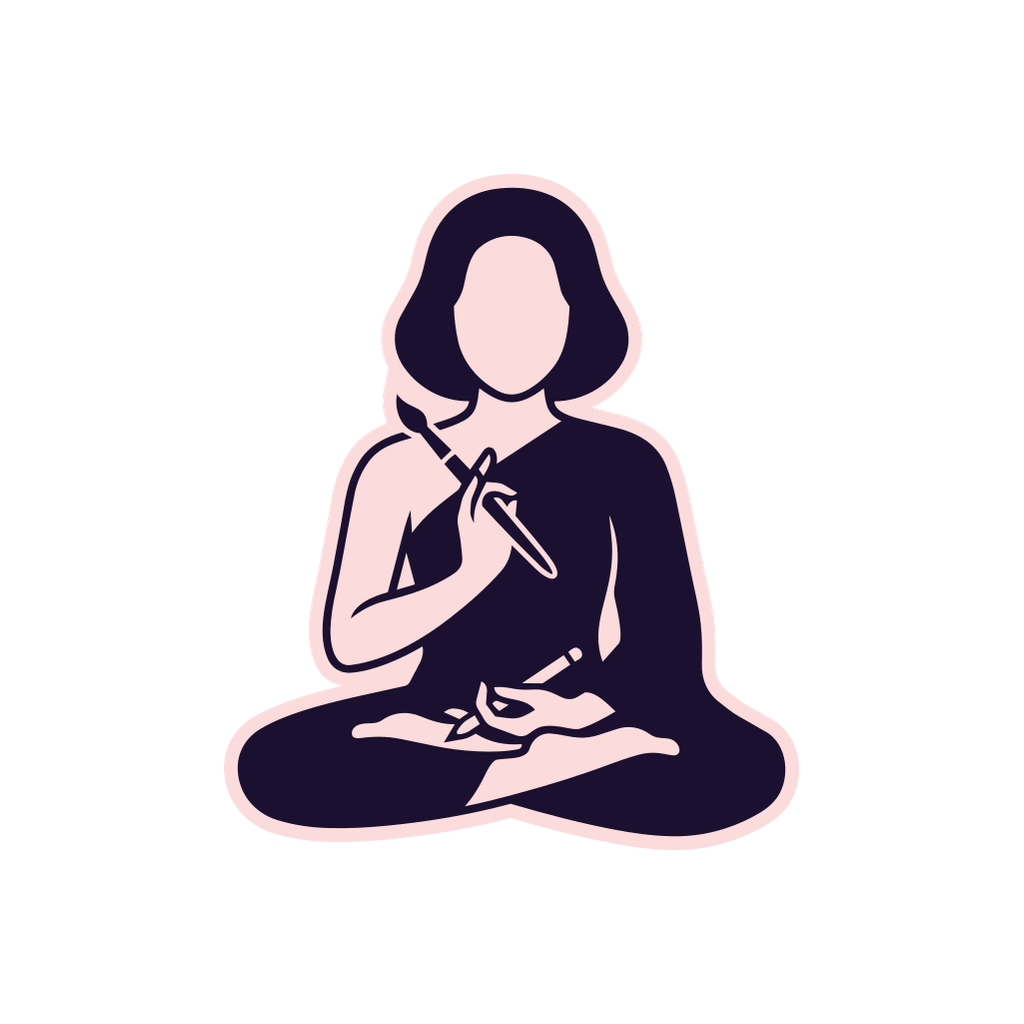
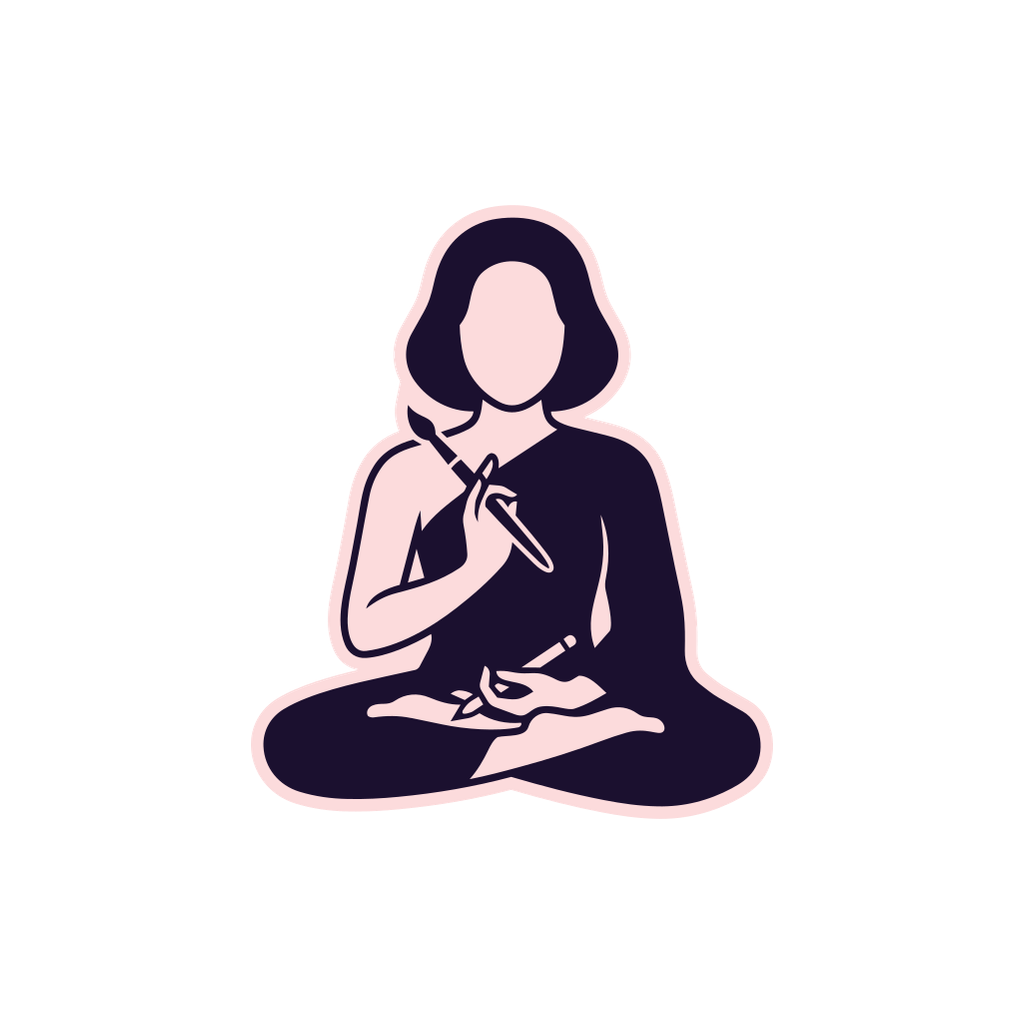
Enhance OAuth user creation and improve SelectionBar styles
- Added a new function to auto-create Firestore users from OAuth tokens when users exist in Firebase Auth but not in Firestore, improving error handling and logging.
- Updated SelectionBar component styles for better layout and interaction, ensuring the gradient background does not block user interactions.
- Adjusted the safe zone for adaptive icons to prevent cropping issues during rendering.

Changed region(s): [[0.2188, 0.1562, 0.7812, 0.8438]]

diff --git a/backend/src/graphql/middleware/auth.js b/backend/src/graphql/middleware/auth.js
@@ -2,6 +2,34 @@ import authService from '../../services/authService.js';
 import { AuthenticationError, NotFoundError } from '../../utils/errors.js';
 import logger from '../../utils/logger.js';
 
+/**
+ * Create OAuth user in Firestore from decoded Firebase token.
+ * Used when user exists in Firebase Auth (valid token) but not in Firestore -
+ * e.g. race with loginWithOAuth or prior registration failure.
+ */
+async function ensureOAuthUserInFirestore(decodedToken) {
+  if (!decodedToken.email) {
+    throw new AuthenticationError('OAuth token missing email');
+  }
+  const nameFromToken = decodedToken.name || decodedToken.displayName || '';
+  const nameParts = (nameFromToken || '').trim().split(/\s+/).filter(Boolean);
+  const firstName = nameParts[0] || (decodedToken.email ? decodedToken.email.split('@')[0] : 'User');
+  const lastName = nameParts.slice(1).join(' ') || '';
+
+  const user = await authService.createUser({
+    firstName,
+    lastName,
+    phone: '',
+    email: decodedToken.email,
+    passwordHash: null,
+    userType: 'google',
+    role: 'user',
+    firebaseUid: decodedToken.uid,
+  });
+  logger.info(`[AUTH] Auto-created Firestore user for OAuth: ${user.id}, email: ${user.email}`);
+  return user;
+}
+
 export const createContext = async ({ req }) => {
   const context = {
     user: null,
@@ -30,23 +58,21 @@ export const createContext = async ({ req }) => {
       user = await userService.getUserById(decodedToken.uid);
       logger.info(`[AUTH] User found: ${user.id}, email: ${user.email}`);
     } catch (error) {
-      // Check if it's a NotFoundError (user doesn't exist in Firestore)
+      // User exists in Firebase Auth but not in Firestore (OAuth race or prior failure)
       const isNotFoundError = error instanceof NotFoundError || 
                               error.name === 'NotFoundError' || 
                               error.constructor?.name === 'NotFoundError' ||
                               (error.message && error.message.includes('User not found'));
       
       if (isNotFoundError) {
-        // Data integrity issue: User exists in Firebase Auth but not in Firestore
-        // This should not happen in normal flow - registration creates both
-        // Log as error for investigation
-        logger.error(`[AUTH] DATA INTEGRITY ISSUE: User ${decodedToken.uid} exists in Firebase Auth but not in Firestore. This indicates a registration failure or data corruption. User must re-register or data must be manually fixed.`);
-        
-        // Don't create user automatically - this is a data integrity issue
-        // The user should re-register or an admin should fix the data
-        throw new AuthenticationError('User account is incomplete. Please contact support or re-register.');
+        logger.warn(`[AUTH] User ${decodedToken.uid} in Firebase Auth but not in Firestore - auto-creating from token`);
+        try {
+          user = await ensureOAuthUserInFirestore(decodedToken);
+        } catch (createError) {
+          logger.error('[AUTH] Failed to auto-create OAuth user:', createError?.message);
+          throw new AuthenticationError('User account is incomplete. Please try signing in again.');
+        }
       } else {
-        // Re-throw if it's not a NotFoundError
         throw error;
       }
     }

diff --git a/frontend/src/components/SelectionBar.js b/frontend/src/components/SelectionBar.js
@@ -76,14 +76,16 @@ const SelectionBar = ({ state, descriptors, navigation }) => {
   const insets = useSafeAreaInsets();
 
   return (
-    <View style={[styles.wrapper, { paddingBottom: Math.max(4, insets.bottom * 0.3) }]}>
-      {/* Gradient background - linear-gradient(180deg, transparent 0%, rgba(255,226,237,0.7) 100%) */}
+    <View style={styles.wrapper} pointerEvents="box-none">
+      {/* Gradient: purely visual layer, never blocks clicks (התנתק etc.) */}
       <LinearGradient
         colors={['rgba(217, 217, 217, 0)', 'rgba(255, 226, 237, 0.7)']}
         locations={[0, 1]}
-        style={styles.gradientBg}
-      >
-        {/* Pill-shaped bar - wider for expanded labels */}
+        style={[styles.gradientBg, { minHeight: 154 + insets.bottom }]}
+        pointerEvents="none"
+      />
+      {/* Pill: interactive layer on top */}
+      <View style={[styles.pillWrapper, { bottom: 24 + insets.bottom }]}>
         <View style={styles.pillContainer}>
           <View style={styles.pill}>
             {state.routes.map((route) => {
@@ -126,7 +128,7 @@ const SelectionBar = ({ state, descriptors, navigation }) => {
             })}
           </View>
         </View>
-      </LinearGradient>
+      </View>
     </View>
   );
 };
@@ -142,12 +144,23 @@ const styles = StyleSheet.create({
     paddingHorizontal: 0,
   },
   gradientBg: {
+    position: 'absolute',
+    bottom: 0,
+    left: 0,
+    right: 0,
     width: '100%',
     minHeight: 154,
     paddingTop: 65,
-    paddingBottom: 24,
     paddingHorizontal: 24,
     alignItems: 'center',
+  },
+  pillWrapper: {
+    position: 'absolute',
+    bottom: 24,
+    left: 0,
+    right: 0,
+    alignItems: 'center',
+    paddingHorizontal: 24,
   },
   pillContainer: {
     width: '100%',

diff --git a/frontend/scripts/generate-app-icon.js b/frontend/scripts/generate-app-icon.js
@@ -28,7 +28,7 @@ async function generateIcons() {
   fs.mkdirSync(imagesDir, { recursive: true });
 
   const SIZE = 1024;
-  const SAFE_ZONE = 0.66; // Android adaptive icon safe zone ~66%
+  const SAFE_ZONE = 0.60; // Android adaptive icon - slightly smaller for margin so icon is not cut off
 
   // 1024x1024 PNG for Android/iOS - fit icon in square with transparent background
   const iconPath = path.join(imagesDir, 'icon.png');
